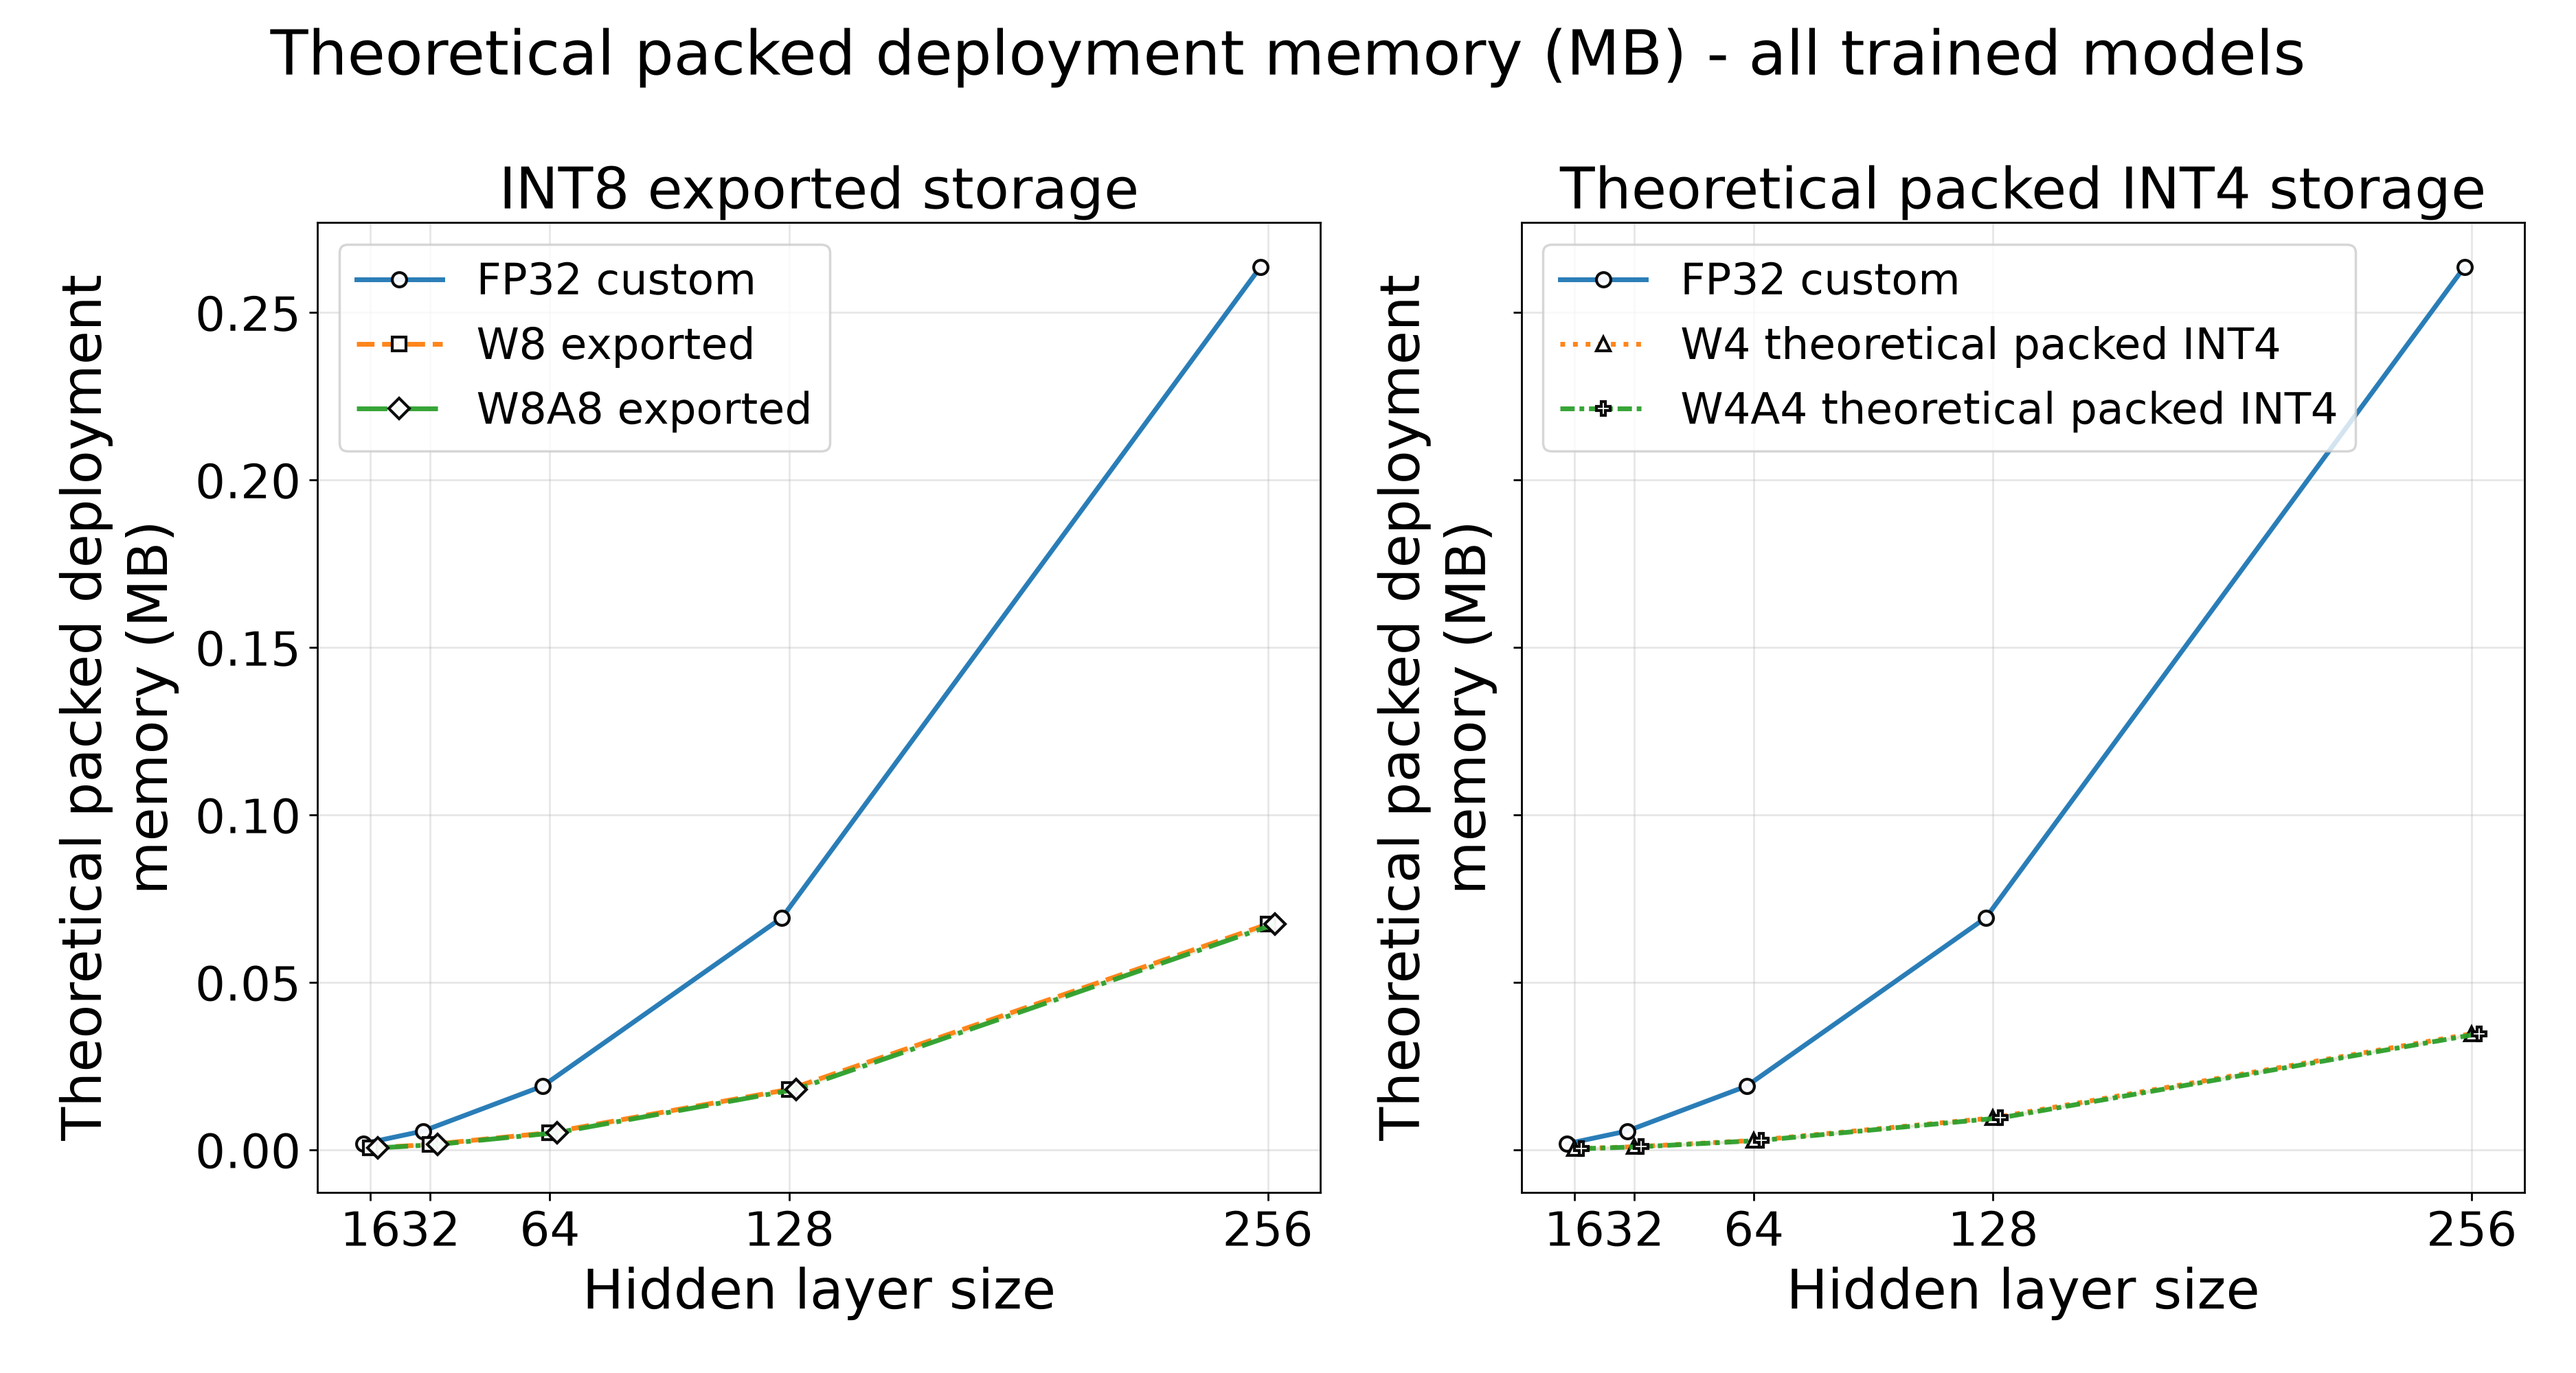
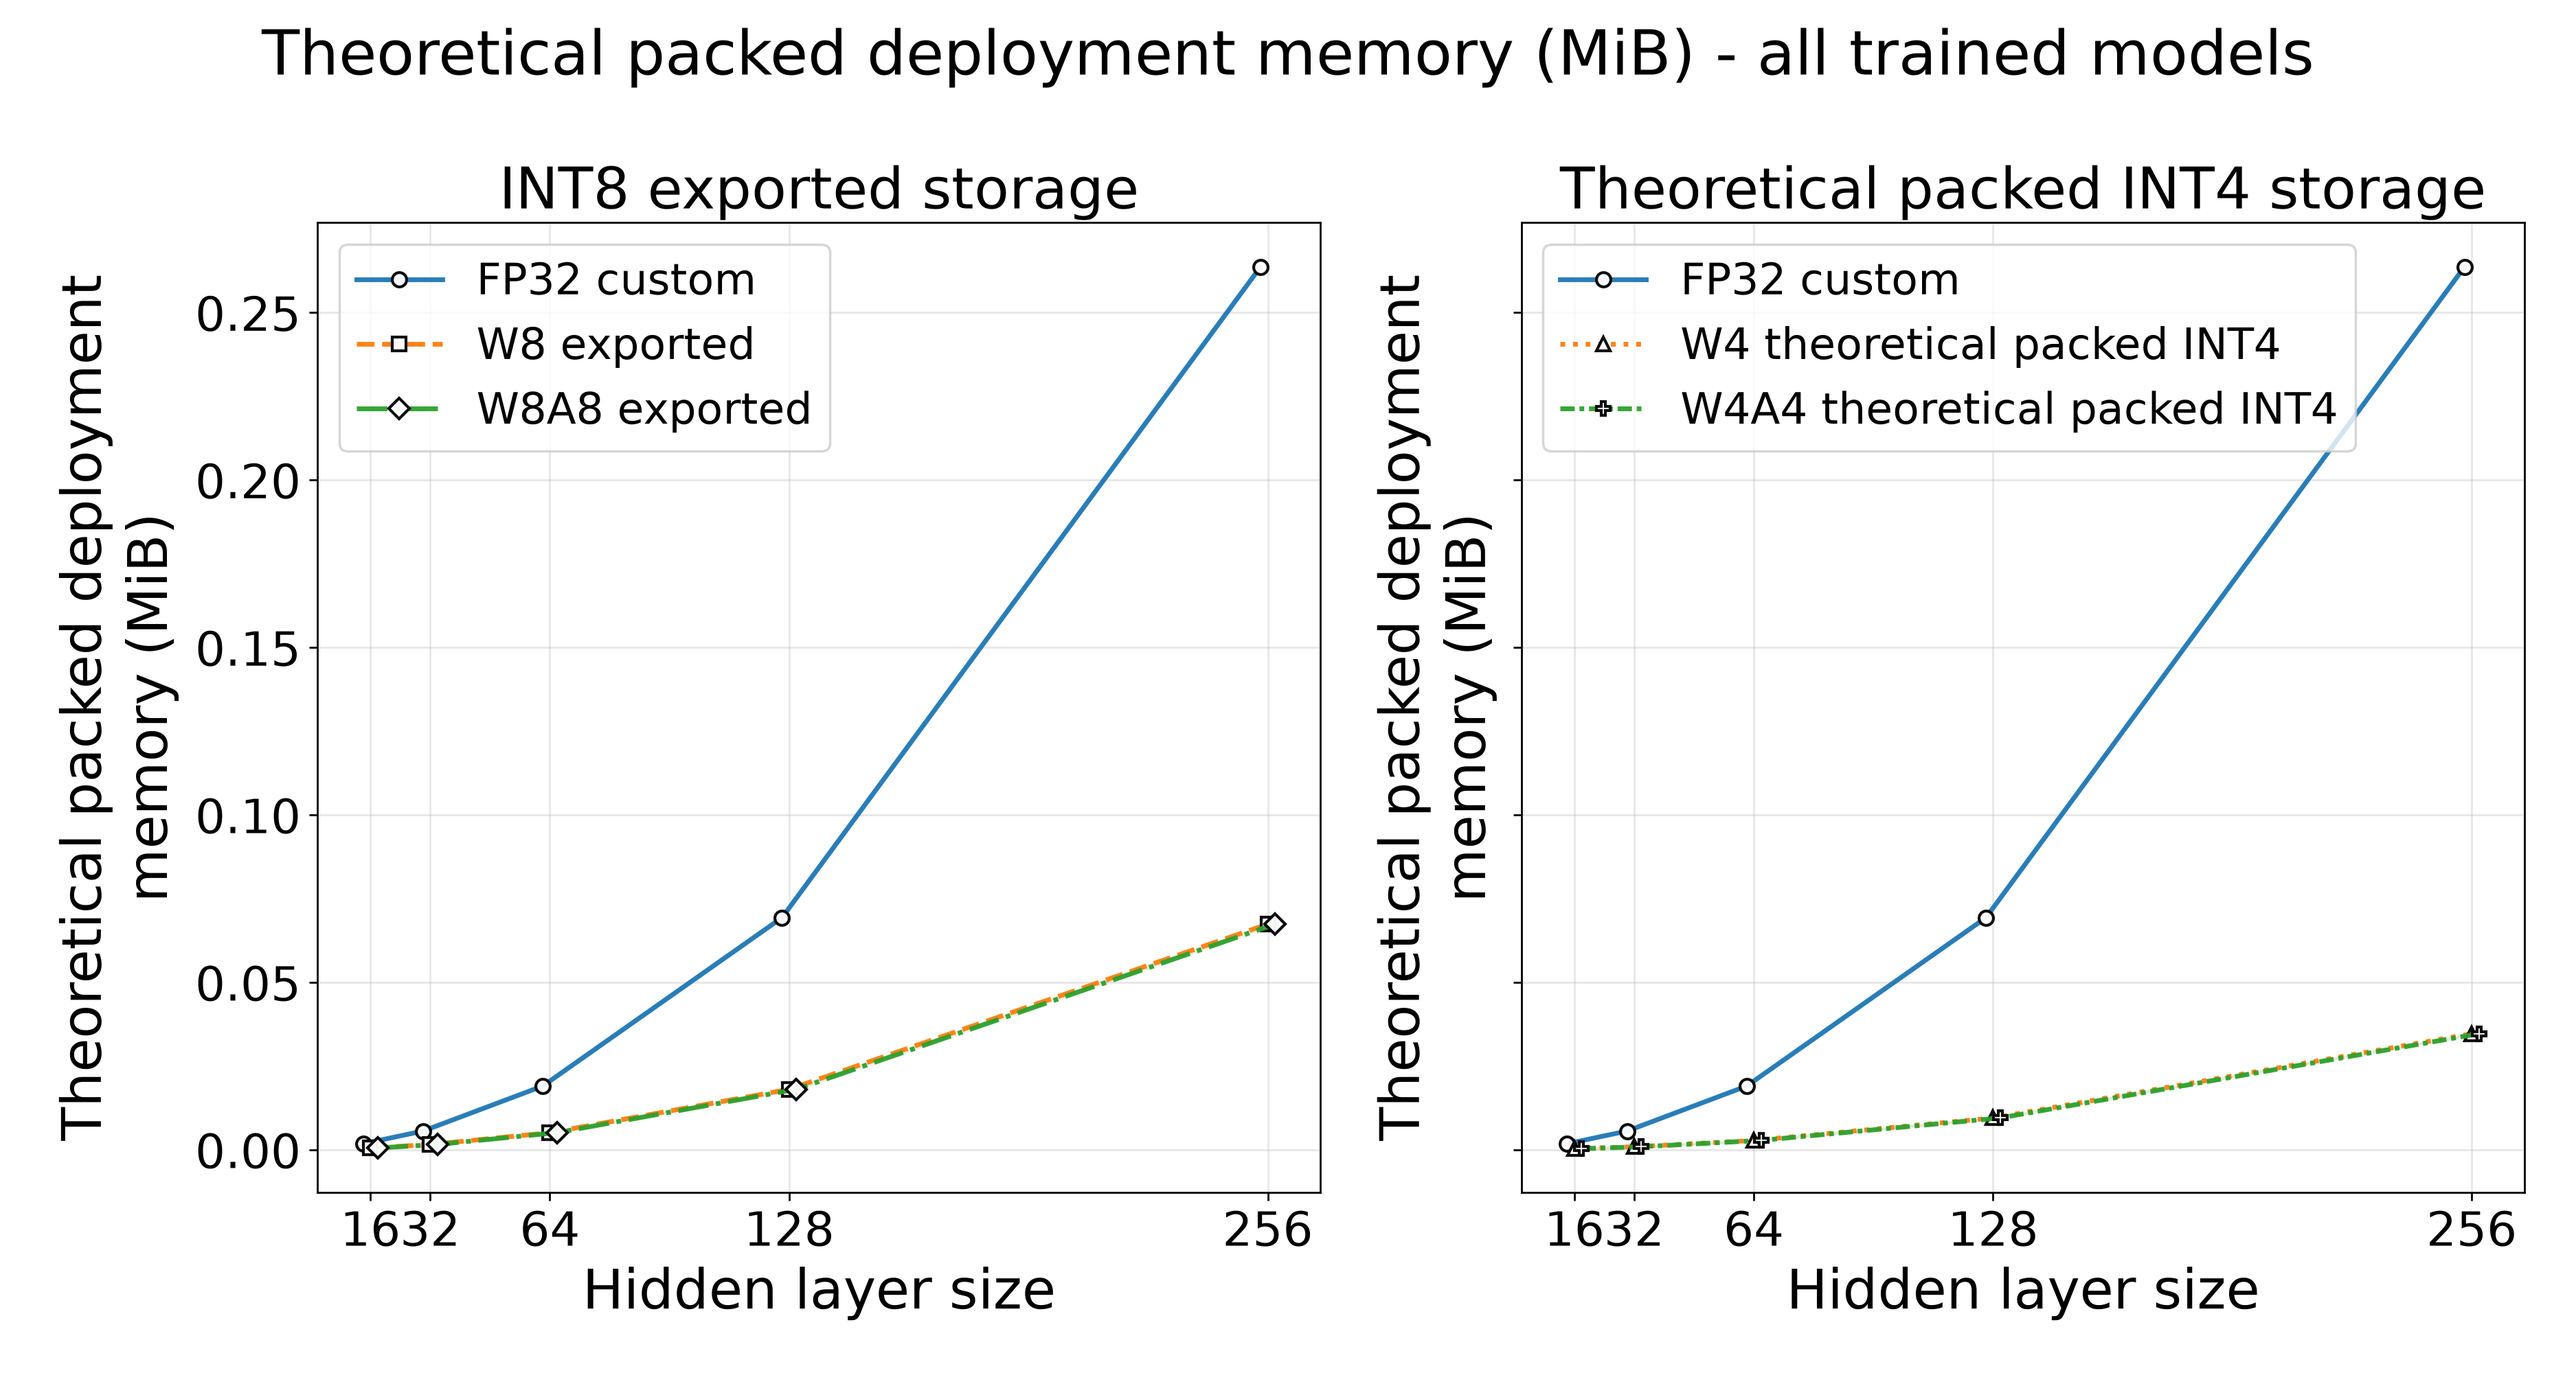
memory fixed

Changed region(s): [[0.0936, 0.0, 0.9048, 0.062], [0.5616, 0.372, 0.5928, 0.651], [0.0312, 0.372, 0.0624, 0.651]]

diff --git a/LunarLander/plotting/plot_benchmark.py b/LunarLander/plotting/plot_benchmark.py
@@ -1047,7 +1047,7 @@ def plot_reward_vs_memory(
     plot_reward_vs_memory_metric(
         grouped,
         "theoretical_parameter_memory_mb",
-        "Theoretical packed parameter memory (MB)",
+        "Theoretical packed parameter memory (MiB)",
         "Reward vs theoretical packed parameter memory",
         "reward_vs_theoretical_memory.png",
         SPLIT_SERIES_THEORETICAL,
@@ -1060,7 +1060,7 @@ def plot_reward_vs_runtime_memory(
     plot_reward_vs_memory_metric(
         grouped,
         "theoretical_runtime_memory_mb",
-        "Theoretical parameter + activation memory (MB)",
+        "Theoretical parameter + activation memory (MiB)",
         "Reward vs theoretical runtime memory",
         "reward_vs_theoretical_runtime_memory.png",
         SPLIT_SERIES_THEORETICAL,
@@ -1206,7 +1206,7 @@ def main():
     plot_summary_metric(
         grouped,
         "file_size_mb",
-        "File size (MB)",
+        "File size (MiB)",
         "summary_file_size.png",
         SPLIT_SERIES_MEASURED,
     )
@@ -1228,7 +1228,7 @@ def main():
     plot_summary_metric(
         grouped,
         "parameter_memory_mb",
-        "Actual stored parameter memory (MB)",
+        "Actual stored parameter memory (MiB)",
         "summary_stored_parameter_memory.png",
         SPLIT_SERIES_MEASURED,
     )
@@ -1247,7 +1247,7 @@ def main():
     plot_detailed_metric(
         grouped,
         "theoretical_parameter_memory_mb",
-        "Theoretical packed deployment memory (MB)",
+        "Theoretical packed deployment memory (MiB)",
         "detailed_theoretical_memory.png",
         SPLIT_SERIES_THEORETICAL,
     )
@@ -1255,7 +1255,7 @@ def main():
     plot_summary_metric(
         grouped,
         "theoretical_parameter_memory_mb",
-        "Theoretical packed deployment memory (MB)",
+        "Theoretical packed deployment memory (MiB)",
         "summary_theoretical_memory.png",
         SPLIT_SERIES_THEORETICAL,
     )
@@ -1291,7 +1291,7 @@ def main():
     plot_summary_metric(
         grouped,
         "theoretical_activation_memory_mb",
-        "Theoretical activation memory per inference (MB)",
+        "Theoretical activation memory per inference (MiB)",
         "summary_theoretical_activation_memory.png",
         SPLIT_SERIES_THEORETICAL,
     )
@@ -1308,7 +1308,7 @@ def main():
     plot_summary_metric(
         grouped,
         "theoretical_runtime_memory_mb",
-        "Theoretical parameter + activation memory (MB)",
+        "Theoretical parameter + activation memory (MiB)",
         "summary_theoretical_runtime_memory.png",
         SPLIT_SERIES_THEORETICAL,
     )
@@ -1370,7 +1370,7 @@ def main():
     plot_summary_metric(
         grouped,
         "peak_python_memory_mb",
-        "Peak Python memory (MB)",
+        "Peak Python memory (MiB)",
         "summary_peak_python_memory.png",
         SPLIT_SERIES_MEASURED,
     )
